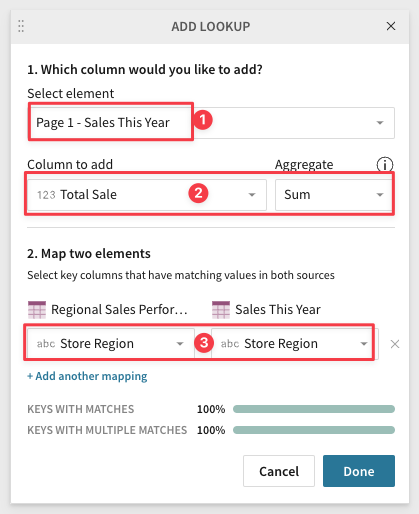
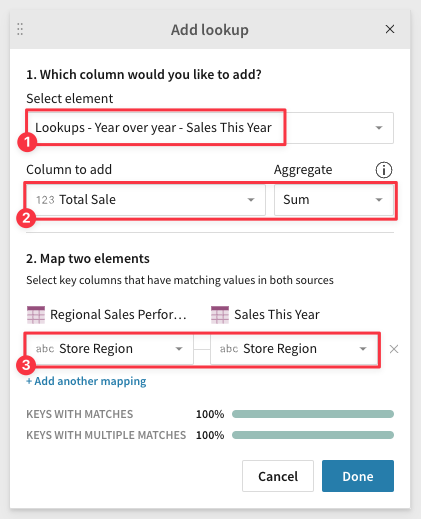
fixed

diff --git a/site/sigmaguides/src/functions_common_date_use_cases/functions_common_date_use_cases.md b/site/sigmaguides/src/functions_common_date_use_cases/functions_common_date_use_cases.md
@@ -449,7 +449,7 @@ Duplicate the table using the table menu.
 
 Rename this table `Sales This Year`
 
-On the second table, hide all the columns leaving only `Store Name`, `Store Region`, `Store Key`, `Quantity` and `Date`.
+On the second table, hide all the columns leaving only `Store Name`, `Store Region`, `Store Key`, and `Date`.
 
 Add a new column, rename it `Total Sale` and set it's formula to:
 ```plaintext
@@ -458,14 +458,16 @@ Add a new column, rename it `Total Sale` and set it's formula to:
 The formula on the `Date` column to:
 
 ```plaintext
-DateTrunc("day", [Date])
+DateTrunc("day", [PLUGS_ELECTRONICS_HANDS_ON_LAB_DATA/Date])
 ```
+
+Rename the column back to `Date`
 
 Your page should now look link this:
 
 <img src="assets/CDUC34.png" width="800"/>
 
-Let's filter this table to display orders from this year only:
+Let's filter this table to display orders from this year only (click on the `Date` column's drop arrow and select `Filter`):
 
 <img src="assets/CDUC35.png" width="600"/>
 
@@ -479,7 +481,7 @@ You will be prompted to set how the two tables will be joined. Use this configur
 
 <img src="assets/CDUC38.png" width="400"/>
 
-Now drag the new Lookup column to the `Calculations` grouping:
+Now drag the new Lookup column to the `Calculations` sectrion of the `Store Region` grouping:
 
 <img src="assets/CDUC39.png" width="800"/>
 
@@ -498,6 +500,8 @@ The page should look like this now (after moving thing around to suit):
 <img src="assets/CDUC42.png" width="800"/>
 
 Now add another new column via Lookup (into the `Regional Sales Performance - This vs. Last Year` table) as before using the new `Sales Last Year` table.
+
+<img src="assets/CDUC43a.png" width="400"/>
 
 The only configuration difference is the source table as shown:
 
